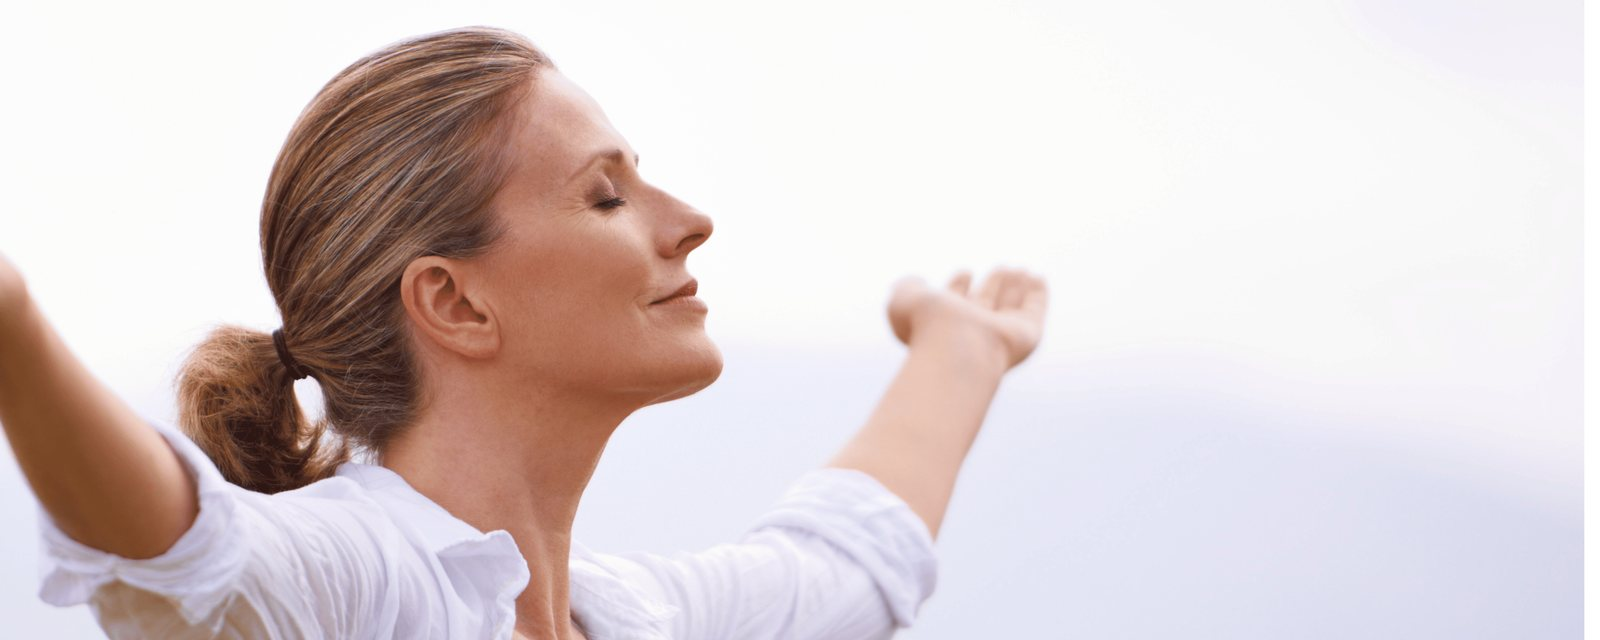
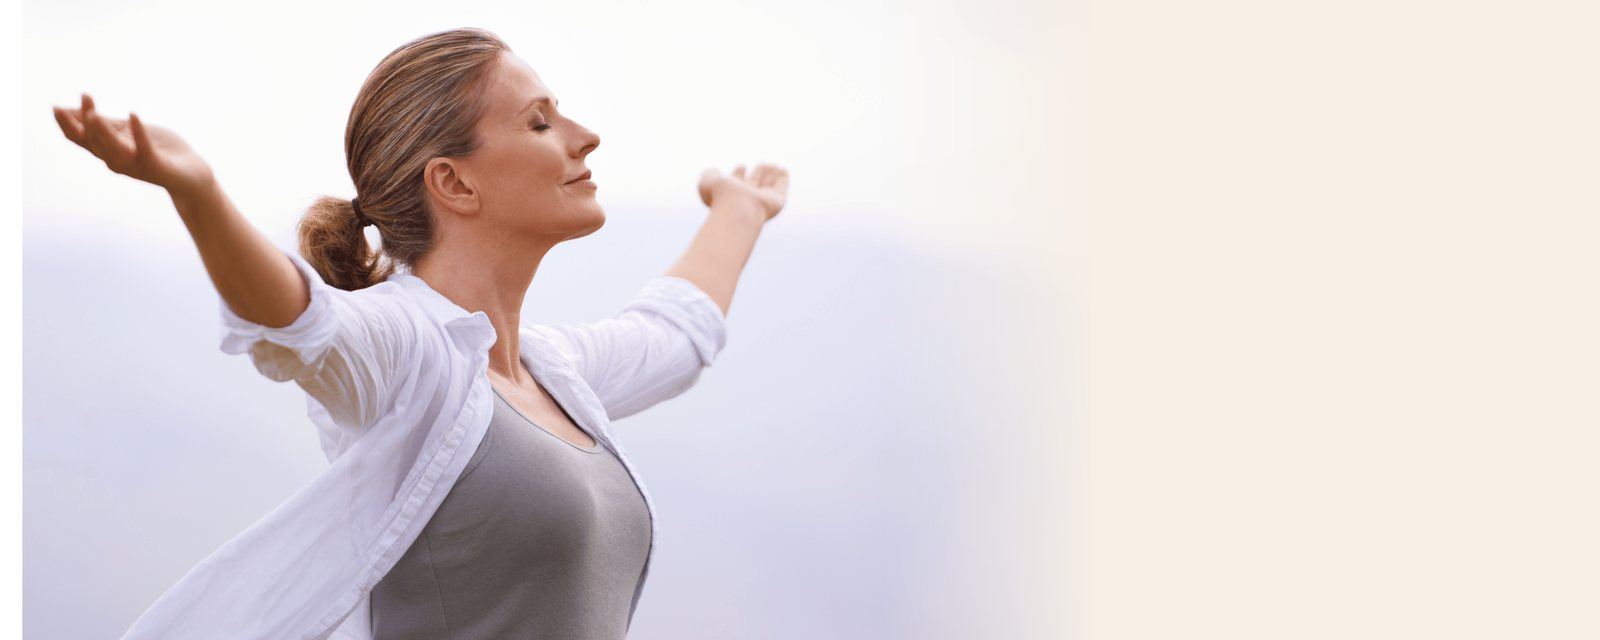
Zena manja i skroz lijevo u zavrsnoj traci O meni (v=140)

diff --git a/style.css b/style.css
@@ -639,5 +639,5 @@ img.t-avatar{object-fit:cover;display:block;}
 .cklist{grid-template-columns:1fr 1fr;gap:20px 44px;}
 .cklist li:last-child{grid-column:1/-1;justify-self:center;max-width:520px;}
 @media (max-width:700px){.cklist{grid-template-columns:1fr;gap:16px;}.cklist li:last-child{grid-column:auto;justify-self:start;}.check-panel{padding:30px 26px;}}
-.quote-band.qb-om{background-image:url('img/zavrsna-om.jpg');background-position:left top;}
+.quote-band.qb-om{background-image:url('img/zavrsna-om.jpg?2');background-position:left top;}
 .quote-band.qb-om blockquote{font-family:'Lora',Georgia,serif;font-size:clamp(20px,2.6vw,28px);color:var(--dark);max-width:820px;margin:0 auto;line-height:1.6;position:relative;}

diff --git a/blog.html b/blog.html
@@ -7,7 +7,7 @@
 <link rel="preconnect" href="https://fonts.googleapis.com">
 <link rel="preconnect" href="https://fonts.gstatic.com" crossorigin>
 <link href="https://fonts.googleapis.com/css2?family=Lora:ital,wght@0,400;0,500;0,600;0,700;1,400&family=Open+Sans:wght@300;400;500;600;700&display=swap" rel="stylesheet">
-<link rel="stylesheet" href="style.css?v=139">
+<link rel="stylesheet" href="style.css?v=140">
 </head>
 <body class="fw">
 

diff --git a/faq.html b/faq.html
@@ -7,7 +7,7 @@
 <link rel="preconnect" href="https://fonts.googleapis.com">
 <link rel="preconnect" href="https://fonts.gstatic.com" crossorigin>
 <link href="https://fonts.googleapis.com/css2?family=Lora:ital,wght@0,400;0,500;0,600;0,700;1,400&family=Open+Sans:wght@300;400;500;600;700&display=swap" rel="stylesheet">
-<link rel="stylesheet" href="style.css?v=139">
+<link rel="stylesheet" href="style.css?v=140">
 </head>
 <body class="fw">
 

diff --git a/index.html b/index.html
@@ -7,7 +7,7 @@
 <link rel="preconnect" href="https://fonts.googleapis.com">
 <link rel="preconnect" href="https://fonts.gstatic.com" crossorigin>
 <link href="https://fonts.googleapis.com/css2?family=Lora:ital,wght@0,400;0,500;0,600;0,700;1,400&family=Open+Sans:wght@300;400;500;600;700&display=swap" rel="stylesheet">
-<link rel="stylesheet" href="style.css?v=139">
+<link rel="stylesheet" href="style.css?v=140">
 </head>
 <body class="fw">
 

diff --git a/kolacici.html b/kolacici.html
@@ -7,7 +7,7 @@
 <link rel="preconnect" href="https://fonts.googleapis.com">
 <link rel="preconnect" href="https://fonts.gstatic.com" crossorigin>
 <link href="https://fonts.googleapis.com/css2?family=Lora:ital,wght@0,400;0,500;0,600;0,700;1,400&family=Open+Sans:wght@300;400;500;600;700&display=swap" rel="stylesheet">
-<link rel="stylesheet" href="style.css?v=139">
+<link rel="stylesheet" href="style.css?v=140">
 </head>
 <body class="fw">
 

diff --git a/konstelacije.html b/konstelacije.html
@@ -7,7 +7,7 @@
 <link rel="preconnect" href="https://fonts.googleapis.com">
 <link rel="preconnect" href="https://fonts.gstatic.com" crossorigin>
 <link href="https://fonts.googleapis.com/css2?family=Lora:ital,wght@0,400;0,500;0,600;0,700;1,400&family=Open+Sans:wght@300;400;500;600;700&display=swap" rel="stylesheet">
-<link rel="stylesheet" href="style.css?v=139">
+<link rel="stylesheet" href="style.css?v=140">
 </head>
 <body class="fw">
 

diff --git a/kontakt.html b/kontakt.html
@@ -7,7 +7,7 @@
 <link rel="preconnect" href="https://fonts.googleapis.com">
 <link rel="preconnect" href="https://fonts.gstatic.com" crossorigin>
 <link href="https://fonts.googleapis.com/css2?family=Lora:ital,wght@0,400;0,500;0,600;0,700;1,400&family=Open+Sans:wght@300;400;500;600;700&display=swap" rel="stylesheet">
-<link rel="stylesheet" href="style.css?v=139">
+<link rel="stylesheet" href="style.css?v=140">
 </head>
 <body class="fw">
 

diff --git a/omeni.html b/omeni.html
@@ -7,7 +7,7 @@
 <link rel="preconnect" href="https://fonts.googleapis.com">
 <link rel="preconnect" href="https://fonts.gstatic.com" crossorigin>
 <link href="https://fonts.googleapis.com/css2?family=Lora:ital,wght@0,400;0,500;0,600;0,700;1,400&family=Open+Sans:wght@300;400;500;600;700&display=swap" rel="stylesheet">
-<link rel="stylesheet" href="style.css?v=139">
+<link rel="stylesheet" href="style.css?v=140">
 </head>
 <body class="fw">
 

diff --git a/portal.html b/portal.html
@@ -7,7 +7,7 @@
 <link rel="preconnect" href="https://fonts.googleapis.com">
 <link rel="preconnect" href="https://fonts.gstatic.com" crossorigin>
 <link href="https://fonts.googleapis.com/css2?family=Lora:ital,wght@0,400;0,500;0,600;0,700;1,400&family=Open+Sans:wght@300;400;500;600;700&display=swap" rel="stylesheet">
-<link rel="stylesheet" href="style.css?v=139">
+<link rel="stylesheet" href="style.css?v=140">
 </head>
 <body class="fw">
 

diff --git a/post.html b/post.html
@@ -7,7 +7,7 @@
 <link rel="preconnect" href="https://fonts.googleapis.com">
 <link rel="preconnect" href="https://fonts.gstatic.com" crossorigin>
 <link href="https://fonts.googleapis.com/css2?family=Lora:ital,wght@0,400;0,500;0,600;0,700;1,400&family=Open+Sans:wght@300;400;500;600;700&display=swap" rel="stylesheet">
-<link rel="stylesheet" href="style.css?v=139">
+<link rel="stylesheet" href="style.css?v=140">
 </head>
 <body class="fw">
 

diff --git a/privatnost.html b/privatnost.html
@@ -7,7 +7,7 @@
 <link rel="preconnect" href="https://fonts.googleapis.com">
 <link rel="preconnect" href="https://fonts.gstatic.com" crossorigin>
 <link href="https://fonts.googleapis.com/css2?family=Lora:ital,wght@0,400;0,500;0,600;0,700;1,400&family=Open+Sans:wght@300;400;500;600;700&display=swap" rel="stylesheet">
-<link rel="stylesheet" href="style.css?v=139">
+<link rel="stylesheet" href="style.css?v=140">
 </head>
 <body class="fw">
 

diff --git a/programi.html b/programi.html
@@ -7,7 +7,7 @@
 <link rel="preconnect" href="https://fonts.googleapis.com">
 <link rel="preconnect" href="https://fonts.gstatic.com" crossorigin>
 <link href="https://fonts.googleapis.com/css2?family=Lora:ital,wght@0,400;0,500;0,600;0,700;1,400&family=Open+Sans:wght@300;400;500;600;700&display=swap" rel="stylesheet">
-<link rel="stylesheet" href="style.css?v=139">
+<link rel="stylesheet" href="style.css?v=140">
 </head>
 <body class="fw">
 
